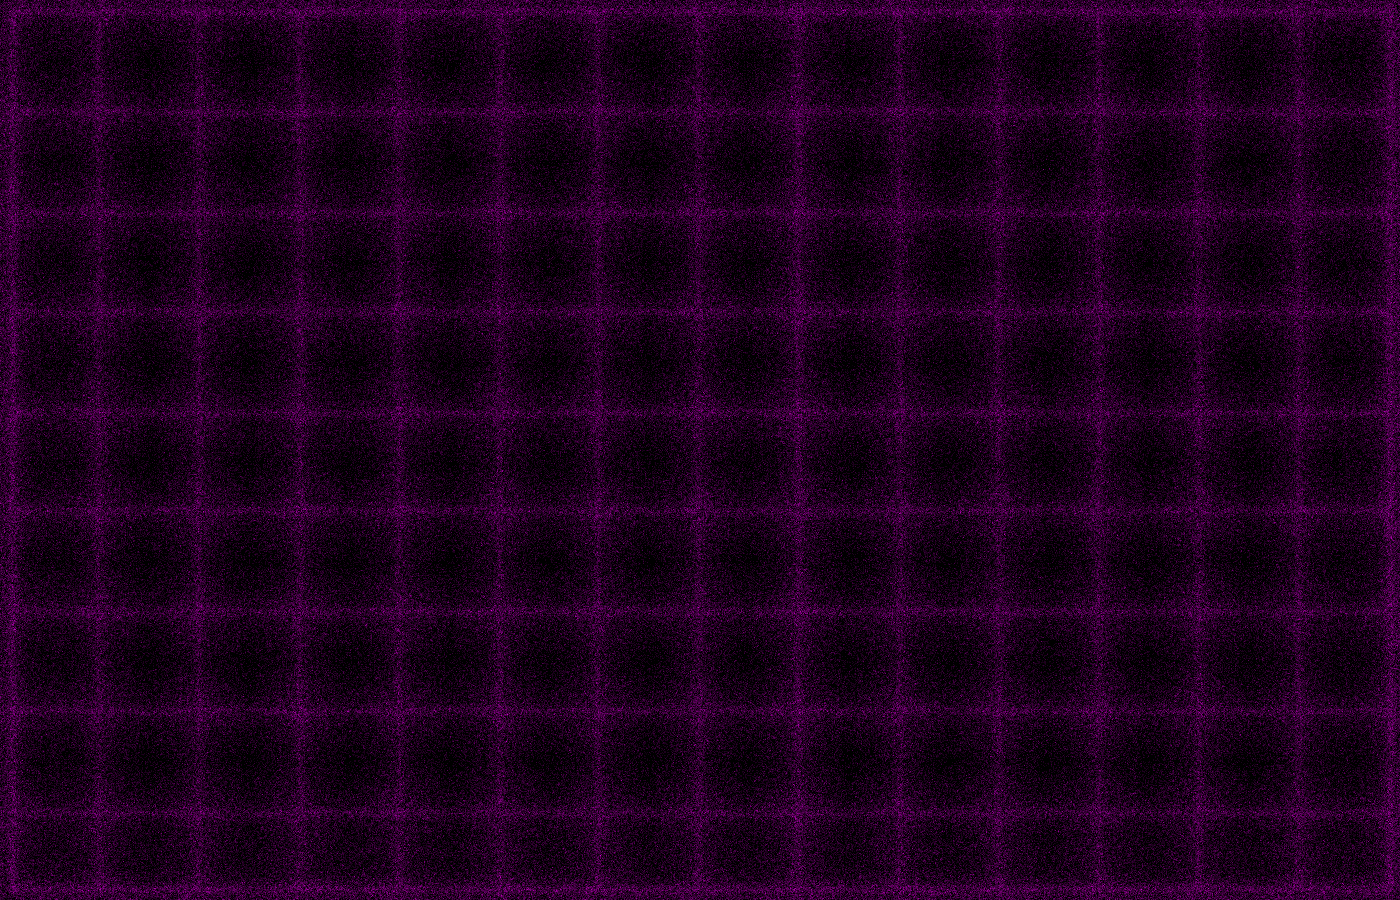
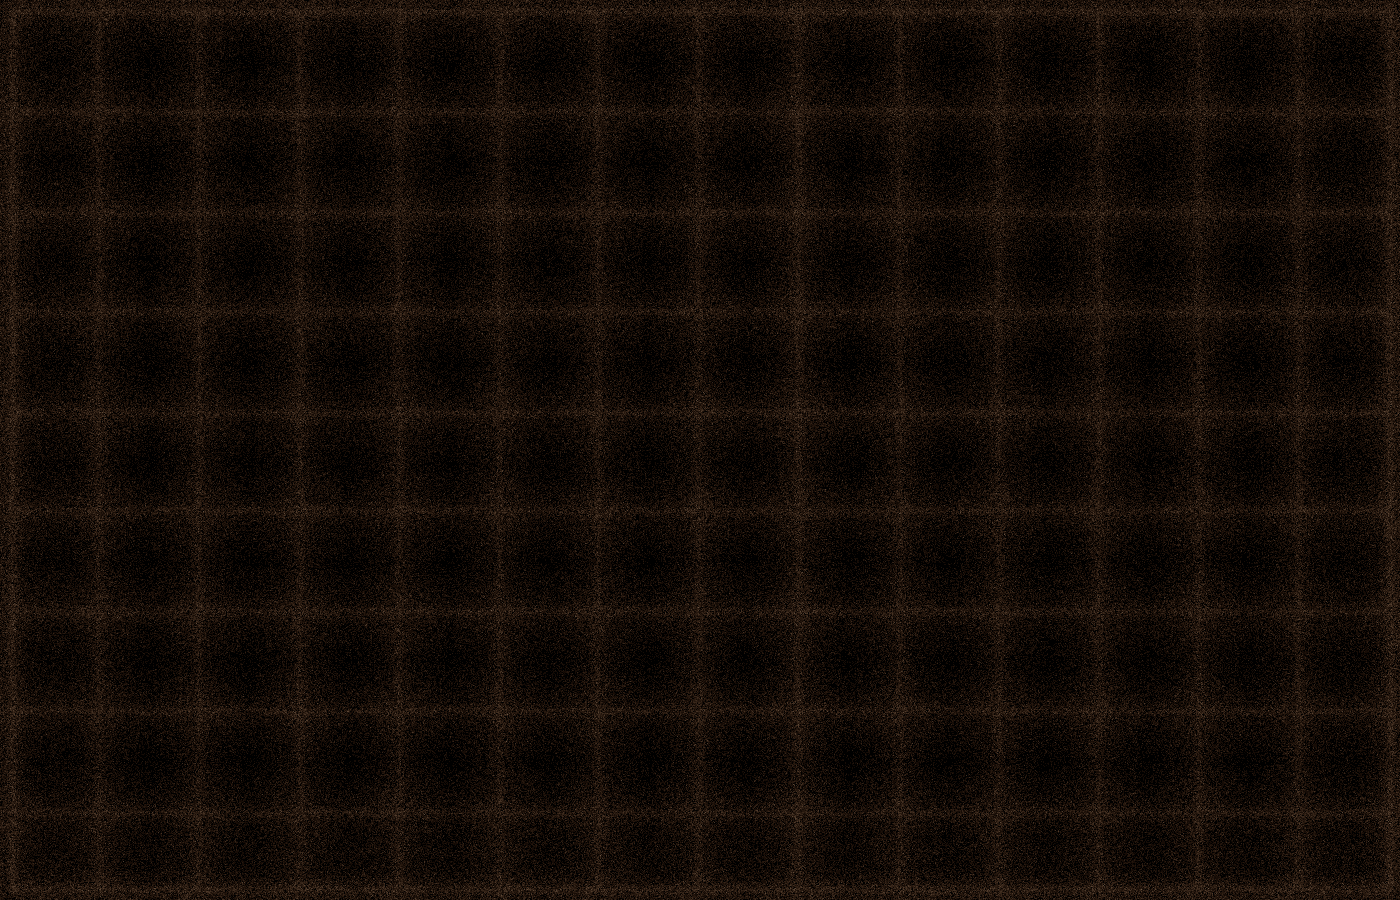
changed background back to plain, added new boss sprite. cleaned up some assets

diff --git a/states/load_state.js b/states/load_state.js
@@ -19,10 +19,7 @@ var load_state = {
     var images_path = assets_path + "images/";
     var ui_images_path = images_path + "UI/";
 
-    //game.load.audio('mm_xanadont_song', 'assets/music/Mystery_Mammal_Xanadont.ogg');
-
     game.load.image("player", images_path + "player_ship.png");
-    //game.load.image('player_bullet', assets_path + 'images/player_bullet.png');
     game.load.spritesheet(
       "player_bullet_sprite_sheet",
       images_path + "player_bullet/player_bullet.png",
@@ -30,28 +27,33 @@ var load_state = {
       16,
       4
     );
+
     game.load.image("flame", images_path + "flame.png");
     game.load.image("turret_top_blue", images_path + "turret_top_blue.png");
     game.load.image("turret_base_blue", images_path + "turret_base_blue.png");
     game.load.image("turret_top_red", images_path + "turret_top_red.png");
     game.load.image("turret_base_red", images_path + "turret_base_red.png");
 
-    game.load.image("boss", images_path + "boss.png");
+
     game.load.image("boss_1", images_path + "boss_1.png");
+    game.load.image("boss_2", images_path + "boss_2.png");
     game.load.image("boss_shield_red", images_path + "boss_shield_red.png");
     game.load.image("boss_shield_blue", images_path + "boss_shield_blue.png");
 
     game.load.image("shield", images_path + "shield.png");
-    game.load.image("circle", images_path + "circle.png");
     game.load.image("enemy_bullet", images_path + "enemy_bullet.png");
     game.load.image("powerup_p", images_path + "pat_powerup_4.png");
 
-    //game.load.image('pat_bg', images_path + 'pat_bg.png');
     game.load.image(
       "title_screen_background",
       images_path + "title_screen.png"
     );
+    game.load.image(
+      "title_screen_no_text",
+      images_path + "title_screen_no_text.png"
+    );
     game.load.image("game_background", images_path + "game_background.png");
+    game.load.image("game_background_clean", images_path + "game_background_clean.png");
     game.load.image("after_boss_bg", images_path + "after_boss_bg.png");
     game.load.image("debug_button", images_path + "debug_button.png");
 
@@ -81,8 +83,6 @@ var load_state = {
     );
     game.load.image("spinner", ui_images_path + "spinner.png");
     game.load.image("x", ui_images_path + "x.png");
-
-    game.load.image("pixel_planet", images_path + "pixel_planet.jpg");
 
     game.load.image("pink_rect_filled", images_path + "pink_rect_filled.png");
     game.load.image("pink_rect_empty", images_path + "pink_rect_empty.png");

diff --git a/level.js b/level.js
@@ -10,6 +10,10 @@ class Level {
       this.controls
     );
 
+    this.bg_sprite = game.add.tileSprite(0, 0, 1400, 700, "game_background_clean");
+
+    this.bg_sprite.sendToBack();
+
     this.UI = new RootUI(
       this.player,
       this.level_data,
@@ -100,33 +104,22 @@ class Level {
 
   handle_circle_weapon_collision(circle_weapon_sprite, turret) {
     if (turret.key == "turret_base_blue" && turret.alive) {
-      turret = turret.kill();
       console.log("circle hit!");
-      console.log(turret);
-      game.add.particleEffect(
-        turret.position.x,
-        turret.position.y,
-        game.cache.getJSON("blue_explosion")
-      );
+      turret = turret.kill(); // does lots of things
       this.UI.score.score_buffer += 5;
-      this.enemy_manager.spawn = true;
       this.UI.remaining_enemies_bar.enemy_died();
+      this.enemy_manager.spawn = true;
     }
   }
 
   handle_bullet_collision(bullet_sprite, turret) {
     if (turret.key == "turret_base_red" && turret.alive) {
       console.log("bullet hit!");
-      turret = turret.kill();
+      turret = turret.kill(); // does a bunch of stuff!
       bullet_sprite.kill();
       this.UI.score.score_buffer += 5;
-      game.add.particleEffect(
-        turret.position.x,
-        turret.position.y,
-        game.cache.getJSON("red_explosion")
-      );
-      this.enemy_manager.spawn = true;
       this.UI.remaining_enemies_bar.enemy_died();
+      this.enemy_manager.spawn = true;
     }
   }
 
@@ -147,5 +140,6 @@ class Level {
     this.player.destroy();
     this.enemy_manager.destroy();
     this.UI.destroy();
+    this.bg_sprite.destroy();
   }
 }

diff --git a/shooting_enemy.js b/shooting_enemy.js
@@ -10,6 +10,7 @@ ShootingEnemy = function(
 ) {
   Phaser.Sprite.call(this, game, 0, 0, "turret_base_" + sprite);
   this.rotation = Math.PI / 4;
+  this.sprite_name = sprite;
   this.player = player;
   this.game = game;
   this.turret = game.add.sprite(0, 0, "turret_top_" + sprite);
@@ -22,6 +23,11 @@ ShootingEnemy = function(
 
   this.events.onKilled.add(function() {
       this.death_sound.play("", 0, GLOBAL_VOLUME, false, true);
+      game.add.particleEffect(
+        this.position.x,
+        this.position.y,
+        game.cache.getJSON(this.sprite_name + "_explosion")
+      );
     }, this);
 
   this.death_sound = sound_manager.add("turret_death");

diff --git a/boss_level.js b/boss_level.js
@@ -11,6 +11,10 @@ class BossLevel {
       game.height / 2,
       this.controls
     );
+
+    this.bg_sprite = game.add.tileSprite(0, 0, 1400, 700, "game_background_clean");
+    this.bg_sprite.sendToBack();
+
     this.UI = new RootUI(
       this.player,
       this.level_data,
@@ -70,5 +74,6 @@ class BossLevel {
     this.player.destroy();
     this.boss.destroy();
     this.UI.destroy();
+    this.bg_sprite.destroy();
   }
 }

diff --git a/boss_enemy.js b/boss_enemy.js
@@ -8,7 +8,7 @@ class BossEnemy {
     this.turret_data = level_data.TURRETS;
     this.shield_data = level_data.SHIELDS;
 
-    this.sprite = game.add.sprite(game.world.width / 2, 0, "boss_1");
+    this.sprite = game.add.sprite(game.world.width / 2, 0, "boss_" + level_data.BOSS_NUMBER);
     this.sprite.anchor.set(0.5, 0.5);
     game.physics.enable(this.sprite, Phaser.Physics.ARCADE);
 

diff --git a/states/credits_state.js b/states/credits_state.js
@@ -3,6 +3,14 @@ var credits_state = {
     this.credit_count = 0;
     this.credits = game.cache.getJSON("credits");
 
+    var background_sprite = game.add.tileSprite(
+      0,
+      0,
+      1400,
+      900,
+      "title_screen_no_text"
+    );
+
     this.credits.forEach(function(credit) {
       this.add_credit(credit.TITLE, credit.NAME);
     }, this);

diff --git a/states/boss_dead_state.js b/states/boss_dead_state.js
@@ -15,7 +15,7 @@ var boss_dead_state = {
 
 
     Utils.create_centered_stroke_text(
-      "STAR\nDEFENSES\nERADICATED",
+      "STAR\nDESTROYED",
       280,
       50,
       WHITE_HEX_COLOR

diff --git a/states/play_state.js b/states/play_state.js
@@ -4,8 +4,6 @@ var play_state = {
   },
 
   create: function() {
-    game.add.tileSprite(0, 0, 1400, 700, "game_background");
-
     this.level_manager = new LevelManager();
   },
 
